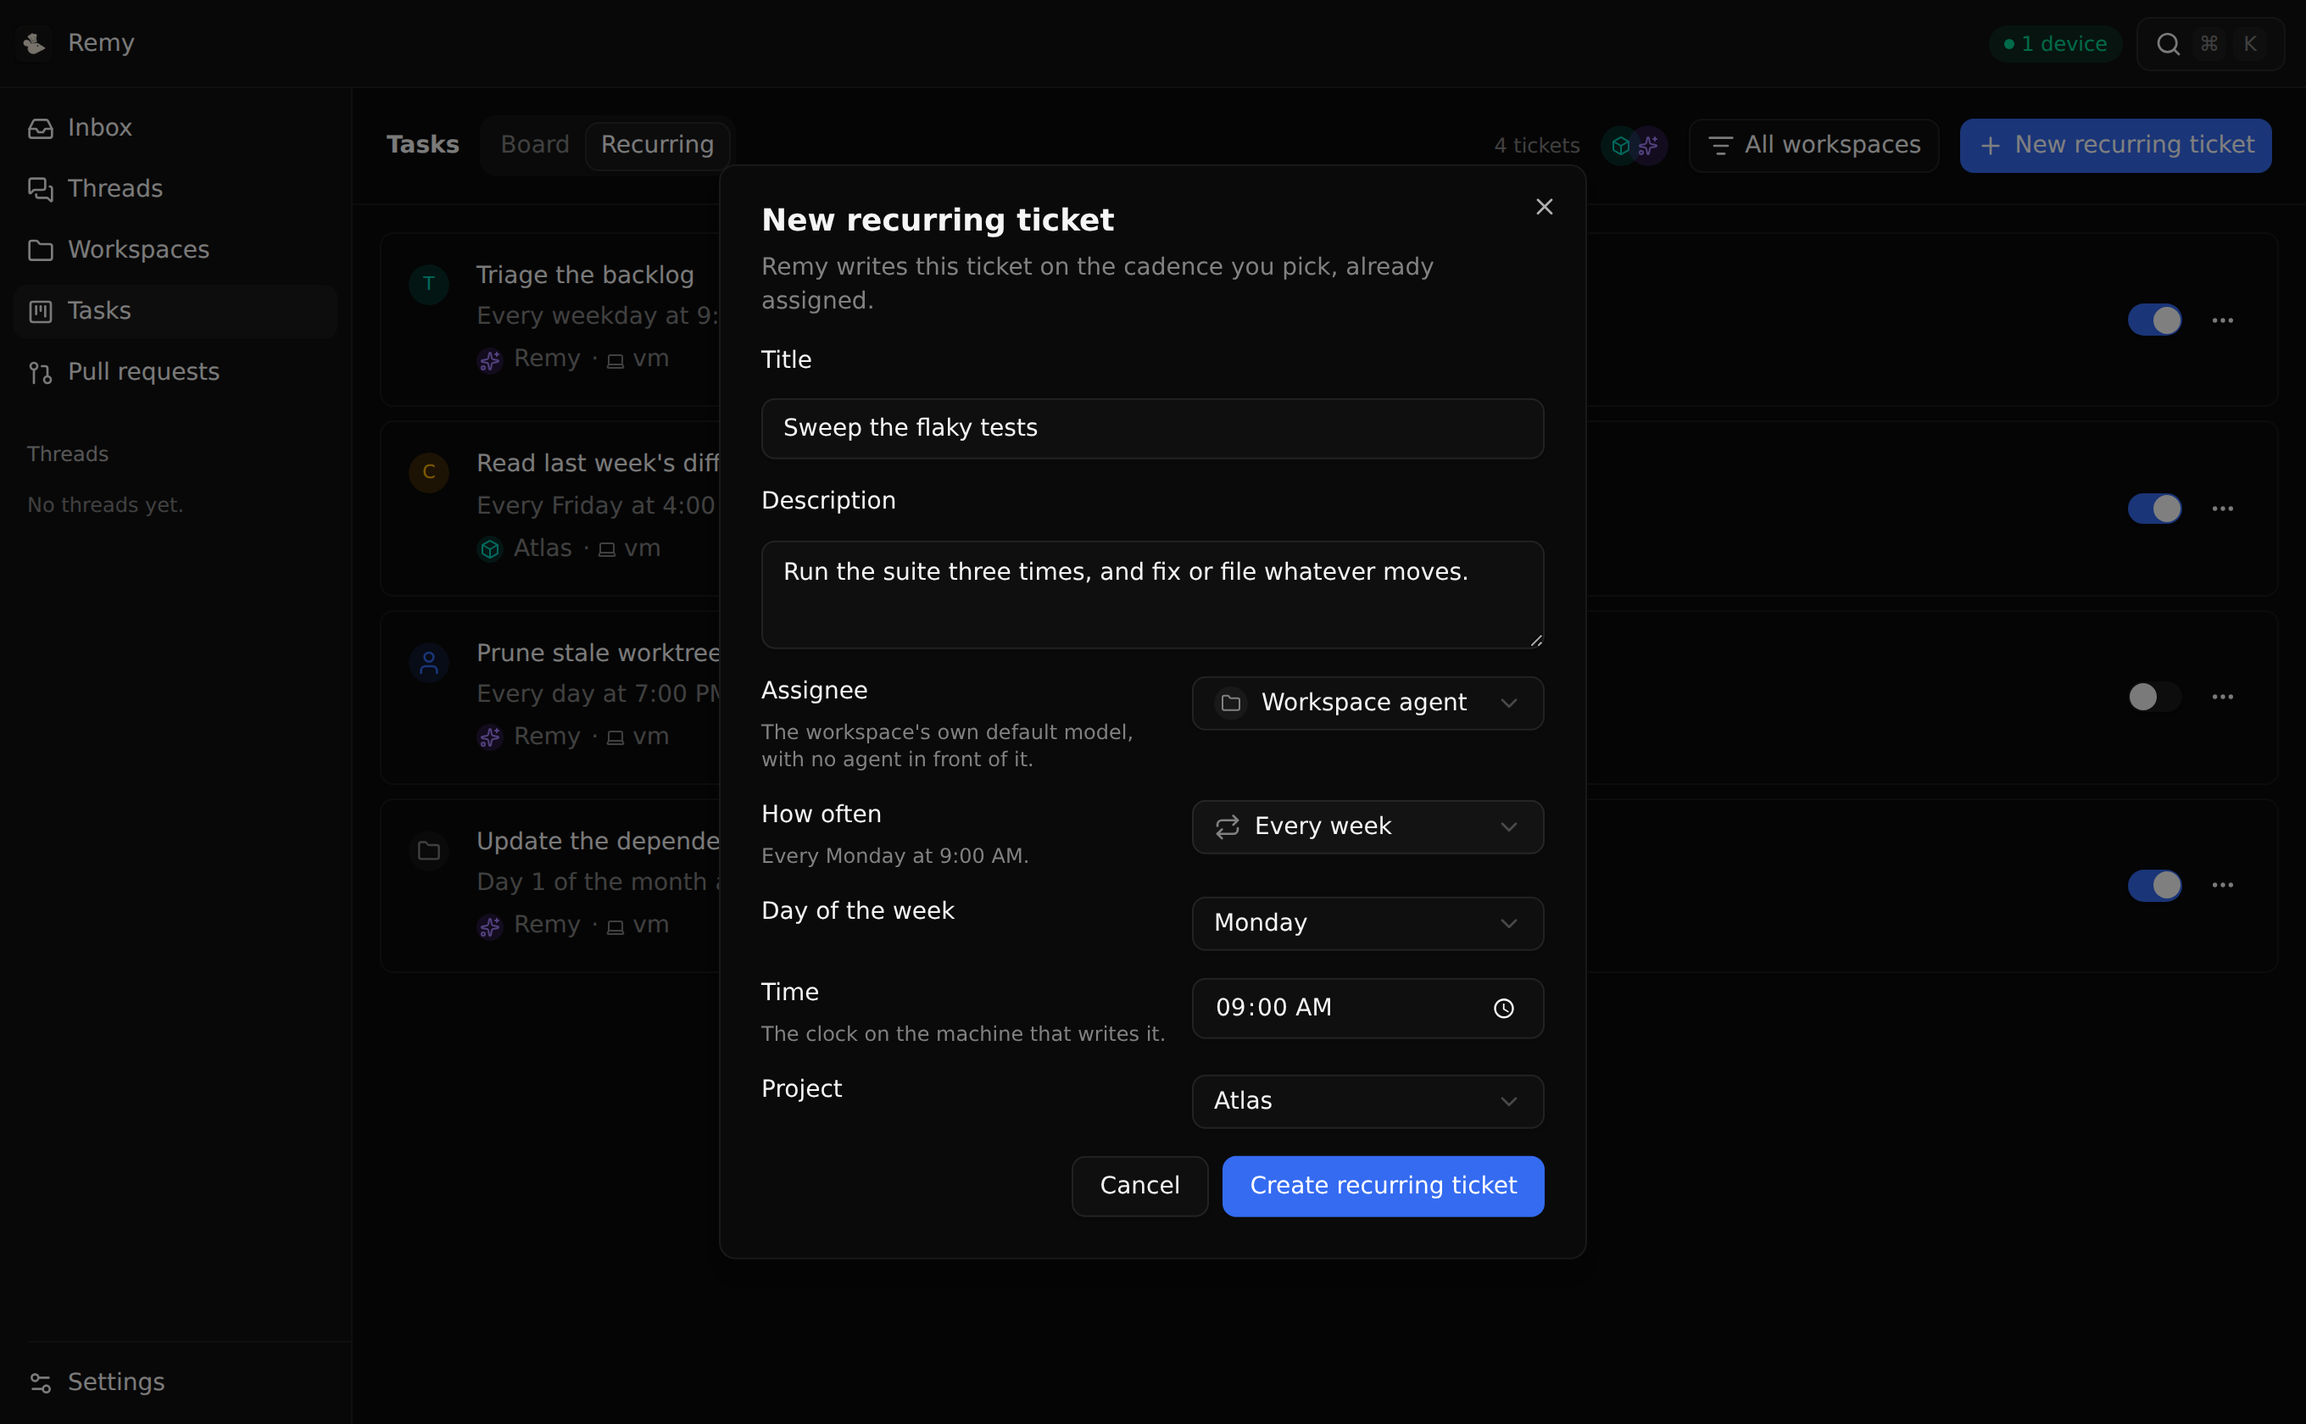
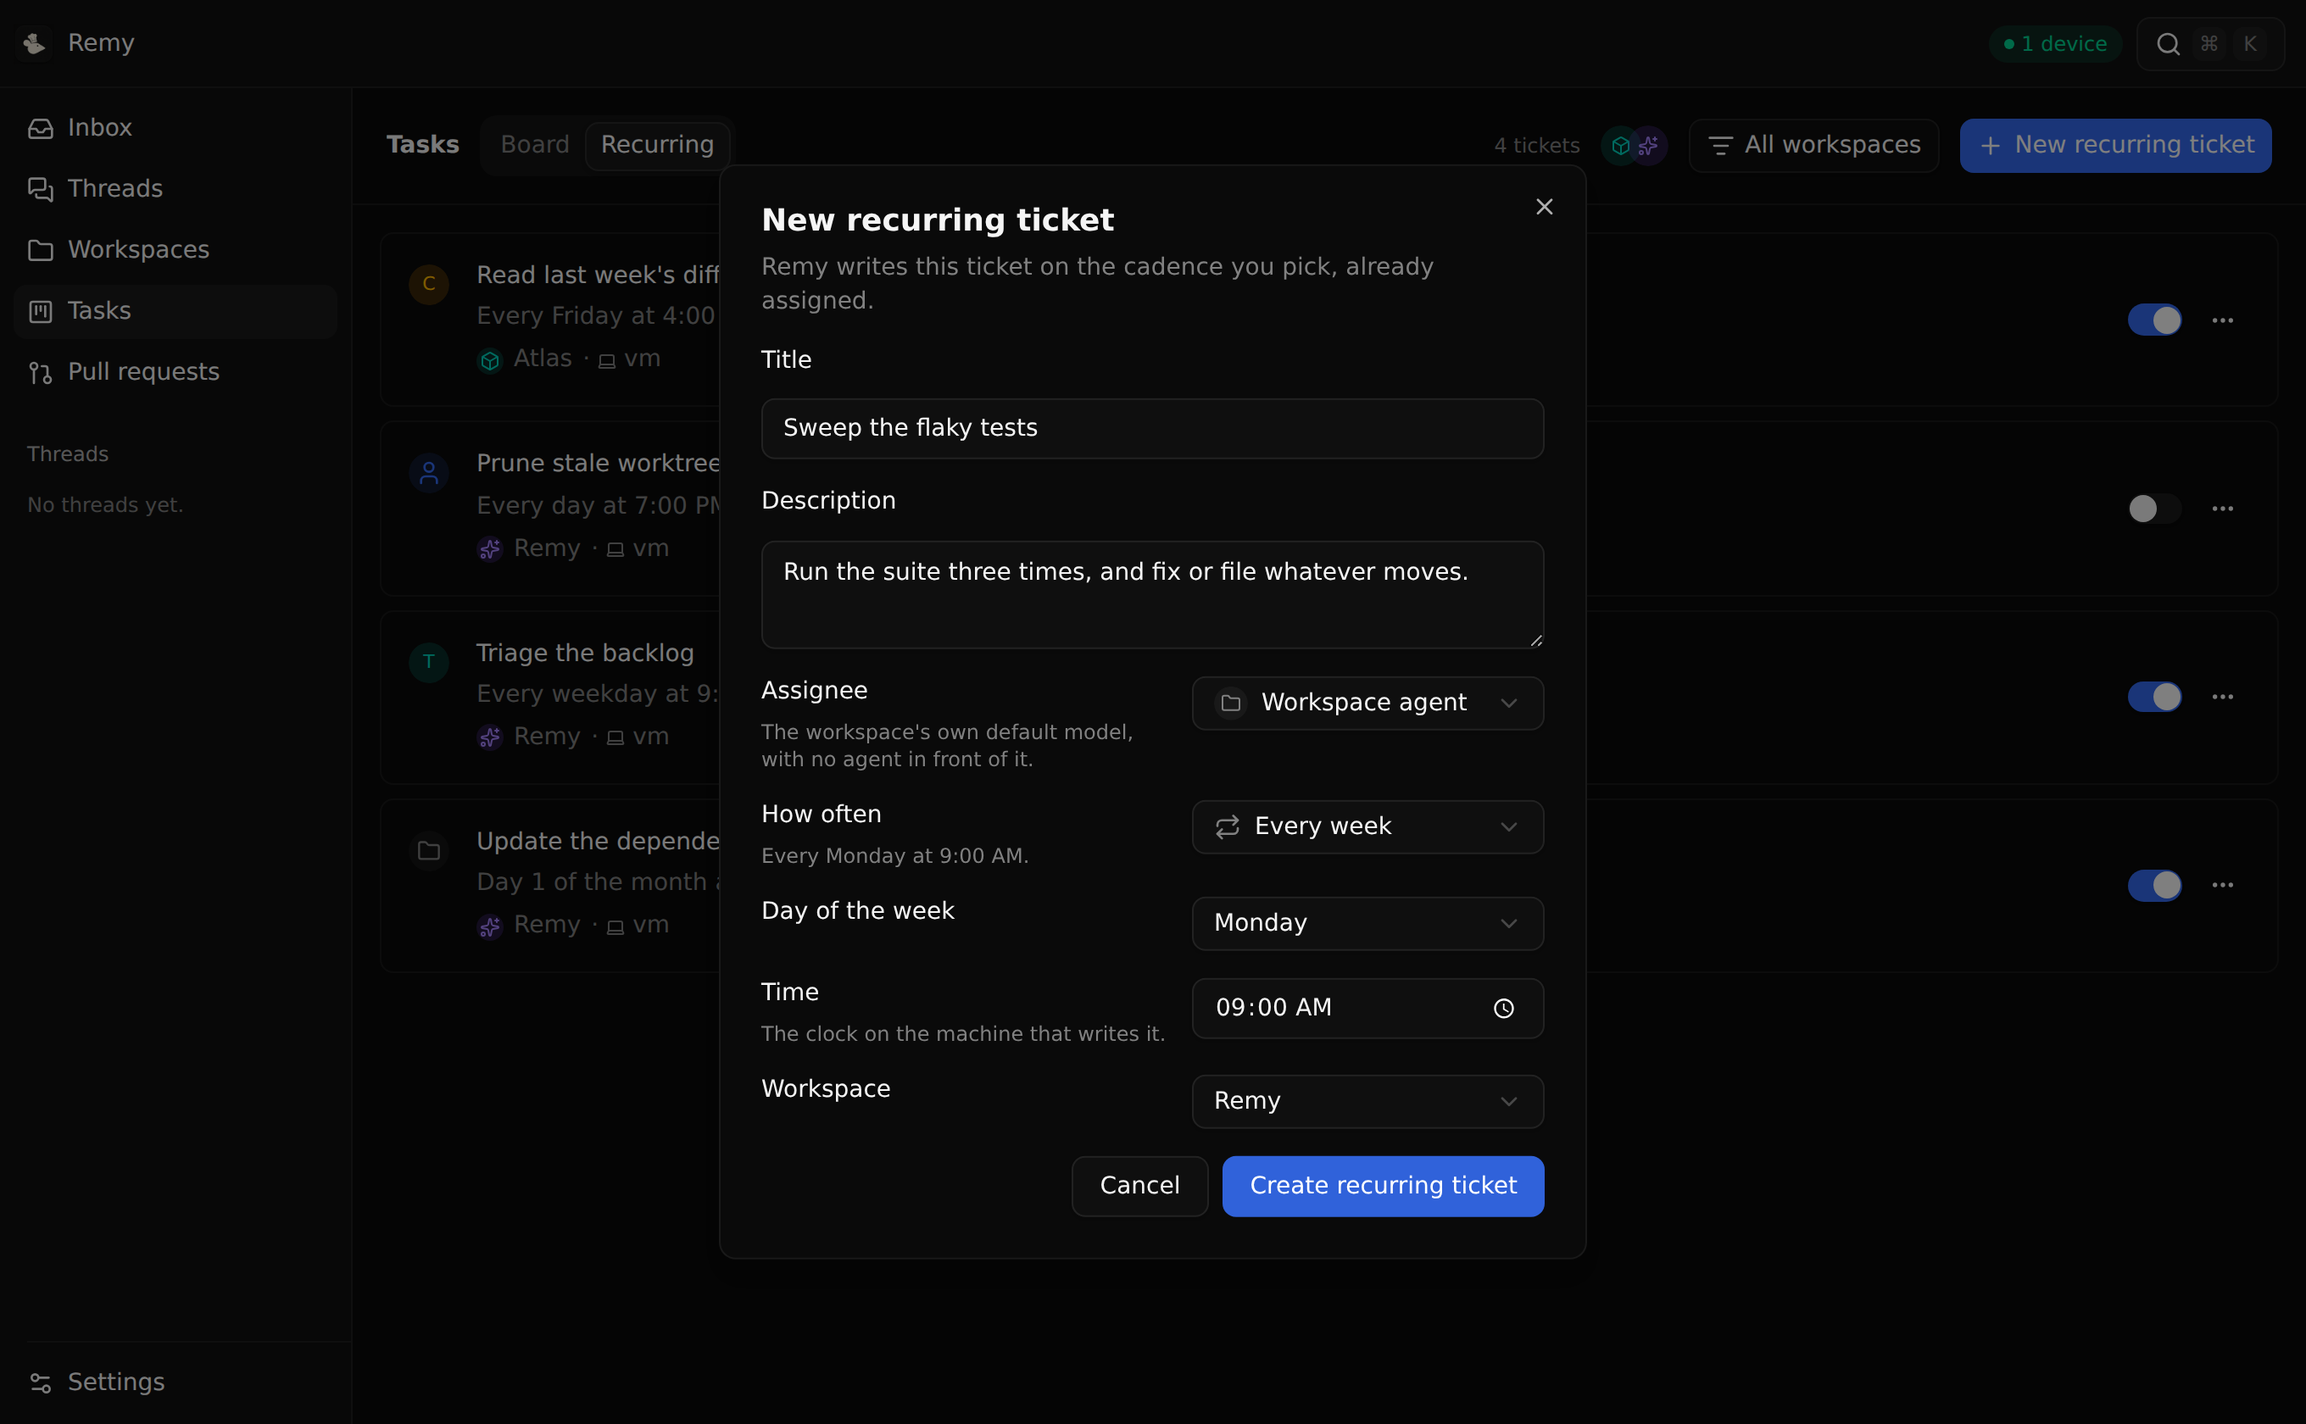
Say workspace, not project, in everything a person reads
A project is the code's word: the repository, keyed on its origin so two
machines land on the same board. Nobody adds a project — they add a folder — so
the UI has only ever had workspaces, and the new recurring dialog broke that by
labelling its field Project. The new-ticket dialog beside it had the same bug.

Fixes both labels, the two board empty states, and the errors the daemon sends
back for a write with no workspace or a slug that clashes.

AGENTS.md gains a Terminology section for the code word / person word pairs,
since this is the mistake that keeps coming back, and the `content` skill —
which is what anyone writing a label actually reads — names the workspace rule
beside the thread one.

Claude-Session: https://claude.ai/code/session_01L6ysjwjuDJKrr4hzKHKBWf

diff --git a/server/src/projects.ts b/server/src/projects.ts
@@ -188,7 +188,7 @@ export function listProjects(): ProjectView[] {
 
 export function createProject(input: { name: string; origin?: string }): Project {
   const name = input.name.trim().slice(0, 60);
-  if (!name) throw new Error("a project needs a name");
+  if (!name) throw new Error("a workspace needs a name");
   const id = randomUUID();
   append("project", id, "create", {
     name,
@@ -196,7 +196,7 @@ export function createProject(input: { name: string; origin?: string }): Project
     ...(input.origin ? { origin: input.origin } : {}),
   });
   const project = reproject(id);
-  if (!project) throw new Error("could not create that project");
+  if (!project) throw new Error("could not track that workspace");
   return project;
 }
 
@@ -207,12 +207,12 @@ export function createProject(input: { name: string; origin?: string }): Project
 /// already exist and the ones that do not yet.
 export function updateProject(id: string, patch: { name?: unknown; keyPrefix?: unknown }): Project {
   const existing = getProject(id);
-  if (!existing) throw new Error("no such project");
+  if (!existing) throw new Error("no such workspace");
   const fields: Record<string, unknown> = {};
 
   if (patch.name !== undefined) {
     const name = typeof patch.name === "string" ? patch.name.trim().slice(0, 60) : "";
-    if (!name) throw new Error("a project needs a name");
+    if (!name) throw new Error("a workspace needs a name");
     fields.name = name;
   }
   if (patch.keyPrefix !== undefined) {
@@ -221,14 +221,14 @@ export function updateProject(id: string, patch: { name?: unknown; keyPrefix?: u
     const clash = db
       .prepare("select id from projects where key_prefix = ? and id != ? and deleted = 0")
       .get(slug, id) as { id?: string } | undefined;
-    if (clash) throw new Error(`another project already uses ${slug}`);
+    if (clash) throw new Error(`another workspace already uses ${slug}`);
     fields.keyPrefix = slug;
   }
   if (Object.keys(fields).length === 0) return existing;
 
   append("project", id, "field", fields);
   const project = reproject(id);
-  if (!project) throw new Error("no such project");
+  if (!project) throw new Error("no such workspace");
   // Keys are derived, but the copy kept on each ticket row is what queries read,
   // so the project's tickets are rebuilt when its slug moves.
   if (fields.keyPrefix) onSlugChanged?.(id);

diff --git a/web/src/components/Board.tsx b/web/src/components/Board.tsx
@@ -158,7 +158,7 @@ export function Board({
               <SquareKanban />
             </EmptyMedia>
             <EmptyTitle className={loading ? "shimmer" : undefined}>
-              {loading ? "Reading the board…" : "No projects yet"}
+              {loading ? "Reading the board…" : "No workspaces yet"}
             </EmptyTitle>
             <EmptyDescription>
               {loading ? "Asking this machine what it is tracking." : "Add a workspace to plan work in it."}
@@ -206,7 +206,7 @@ export function Board({
             </EmptyMedia>
             <EmptyTitle>Nothing on the board</EmptyTitle>
             <EmptyDescription>
-              {chosen.size === 0 ? "Write the first ticket." : "No tickets in the projects you picked."}
+              {chosen.size === 0 ? "Write the first ticket." : "No tickets in the workspaces you picked."}
             </EmptyDescription>
           </EmptyHeader>
           <EmptyContent>
@@ -574,10 +574,10 @@ export function NewTicketDialog({
           {projects.length > 1 && !parentId && (
             <Field orientation="horizontal" className="items-center">
               <FieldContent>
-                <FieldLabel htmlFor="ticket-project">Project</FieldLabel>
+                <FieldLabel htmlFor="ticket-workspace">Workspace</FieldLabel>
               </FieldContent>
               <Select value={project} onValueChange={setProject}>
-                <SelectTrigger id="ticket-project" size="sm" className="w-52 shrink-0">
+                <SelectTrigger id="ticket-workspace" size="sm" className="w-52 shrink-0">
                   <SelectValue />
                 </SelectTrigger>
                 <SelectContent align="end">

diff --git a/web/src/components/Recurring.tsx b/web/src/components/Recurring.tsx
@@ -125,7 +125,7 @@ export function Recurring({
               <Repeat />
             </EmptyMedia>
             <EmptyTitle className={loading ? "shimmer" : undefined}>
-              {loading ? "Reading the board…" : "No projects yet"}
+              {loading ? "Reading the board…" : "No workspaces yet"}
             </EmptyTitle>
             <EmptyDescription>
               {loading ? "Asking this machine what it is tracking." : "Add a workspace to plan work in it."}
@@ -300,7 +300,7 @@ function RecurrenceRow({
             // there is nothing here to open.
             <span className="flex items-center gap-1.5">
               <Folder className="size-4 shrink-0" />
-              {project?.name ?? "No project"}
+              {project?.name ?? "No workspace"}
             </span>
           )}
           {device && (
@@ -591,10 +591,10 @@ function RecurrenceDialog({
           {projects.length > 1 && !recurrence && (
             <Field orientation="horizontal" className="items-center">
               <FieldContent>
-                <FieldLabel htmlFor="recurring-project">Project</FieldLabel>
+                <FieldLabel htmlFor="recurring-workspace">Workspace</FieldLabel>
               </FieldContent>
               <Select value={project} onValueChange={setProject}>
-                <SelectTrigger id="recurring-project" size="sm" className="w-52 shrink-0">
+                <SelectTrigger id="recurring-workspace" size="sm" className="w-52 shrink-0">
                   <SelectValue />
                 </SelectTrigger>
                 <SelectContent align="end">

diff --git a/server/src/recurring.test.ts b/server/src/recurring.test.ts
@@ -179,10 +179,10 @@ test("a deleted recurrence is gone and writes nothing more", () => {
   assert.throws(() => recurring.runRecurrence(recurrence.id), /no such recurring ticket/);
 });
 
-test("a recurrence needs a title and a project that exists", () => {
+test("a recurrence needs a title and a workspace that exists", () => {
   const project = projects.createProject({ name: "Guards" });
   assert.throws(() => recurring.createRecurrence({ projectId: project.id, title: "  " }), /needs a title/);
-  assert.throws(() => recurring.createRecurrence({ projectId: "nope", title: "Anything" }), /pick a project/);
+  assert.throws(() => recurring.createRecurrence({ projectId: "nope", title: "Anything" }), /pick a workspace/);
   assert.throws(
     () => recurring.createRecurrence({ projectId: project.id, title: "Anything", cadence: "fortnightly" }),
     /how often/,

diff --git a/server/src/tickets.ts b/server/src/tickets.ts
@@ -444,7 +444,7 @@ function validate(input: Record<string, unknown>): Record<string, unknown> {
 export function createTicket(input: Record<string, unknown>, actor = "you"): TicketView {
   const projectId = String(input.projectId ?? "");
   const project = getProject(projectId);
-  if (!project) throw new Error("pick a project for this ticket");
+  if (!project) throw new Error("pick a workspace for this ticket");
   const patch = validate(input);
   if (!patch.title) throw new Error("a ticket needs a title");
 

diff --git a/server/src/recurring.ts b/server/src/recurring.ts
@@ -304,7 +304,7 @@ function validate(input: Record<string, unknown>, existing?: Recurrence): Record
 
 export function createRecurrence(input: Record<string, unknown>): RecurrenceView {
   const projectId = String(input.projectId ?? "");
-  if (!getProject(projectId)) throw new Error("pick a project for this ticket");
+  if (!getProject(projectId)) throw new Error("pick a workspace for this ticket");
   const patch = validate(input);
   if (!patch.title) throw new Error("a recurring ticket needs a title");
 

diff --git a/server/src/index.ts b/server/src/index.ts
@@ -622,7 +622,7 @@ const server = createServer(async (req, res) => {
         broadcast({ type: "board" });
         return json(res, 200, { project });
       } catch (error) {
-        return json(res, 404, { error: (error as Error).message || "no such project" });
+        return json(res, 404, { error: (error as Error).message || "no such workspace" });
       }
     }
 

diff --git a/AGENTS.md b/AGENTS.md
@@ -46,6 +46,29 @@ Skip `VITE_MC_FIXTURE=1`; that is fake data, not your real state.
 - **`qa`** — after a visual or interaction change, drive the running app before calling it done.
 - **`shadcn`** and **`migrate-radix-to-base`** — vendored from `shadcn/ui` and tracked in `skills-lock.json`. Do not hand-edit them.
 
+## Terminology
+
+The code and the person do not always use the same word. Where they differ, the
+code's word is the one in types, tables and routes; the person's word is the one
+in **every string anybody reads** — a label, a menu item, an empty state, an
+error, a toast, a comment on a ticket. Getting this wrong is the most repeated
+mistake in this repo, so check the table before naming anything.
+
+| The code says | A person reads | Because |
+|---|---|---|
+| `project` | **workspace** | A project is the repository, keyed on its origin remote so two machines land on the same one. A workspace is one machine's folder holding it. Nobody adds a project — they add a folder, so that is the only word the UI uses. |
+| `chat` | **thread** | A conversation with an agent. The API, the database and the code all still say chat. |
+| `server`, `peer` | **device** | Another machine you paired with. |
+| `keyPrefix` | **ticket slug** | The letters in front of a ticket key. |
+| `recurrence` | **recurring ticket** | It is a ticket, written again on its cadence — never a job, a schedule or a loop. |
+| `assigneeAgentId` of `you` / `workspace` | **You** / **Workspace agent** | The two assignees that are not agent rows. |
+
+Nothing a person reads says project, job, workflow, cron, daemon, projection,
+fold, board log, lamport or event. **Tasks** is the section, **Board** and
+**Recurring** are its two tabs, and a **ticket** is the unit of work. Machine is
+fine — the app says "this machine" — and so is worktree, which is a git word
+anyone using worktrees already has.
+
 ## Checks
 
 ```sh
@@ -66,7 +89,7 @@ A server module opens its database at import time, so a test that touches state 
 - **Config lives in the database** — the `kv` table in `~/.remy/remy.db`, read through `server/src/config.ts`. A new setting is a key on `Config`, a line in `publicSettings`, and a validated branch in `patchSettings`; the client reads and writes it at `/server/settings`. `~/.mission-control` is the legacy directory, honoured when `~/.remy` is absent.
 - **Where the window is lives in the URL**, as a hash route parsed by `web/src/lib/route.ts`. Electron loads the build from `file://`, where a path a server never sees cannot survive a reload, so the hash is what both surfaces agree on.
 - **Worktrees** Remy creates go in a `.remy` folder, inside the workspace or under the `worktreeRoot` setting, hidden by a rule in the repo's `.git/info/exclude` — per-clone and never committed, so no tracked `.gitignore` changes. Worktrees already checked out elsewhere are left where they are.
-- **A person reads "thread"**, not "chat". The API, the database, and the code still say chat.
+- **The words a person reads** are not always the words the code uses — see **Terminology** above, and check it before naming a label, an error or an empty state.
 - **Pairing lives in the daemon**, in the `peers` table — not in any client, so one pairing serves the desktop app, the browser and the phone. A client reaches a paired machine through `/peers/:id/api/...` on its own daemon, which is the only side holding that machine's token. `GET /server/identity` is how a machine introduces itself; `tailscale serve` is the only way in, so the daemon's bind stays on `127.0.0.1`, and `PATCH /server/identity {exposed}` is the switch for it.
 - **Two machines pair by asking, not by carrying a token.** `tailnet.ts` lists your devices from `tailscale status --json` and probes each for Remy — an un-tokened `/health` answers **401**, which is the positive signal. `pairing.ts` then runs the ask: one side shows a six-digit code, a person on the other compares it and allows. `/pair/request` and `/pair/status` are **the only unauthenticated routes** in the daemon, because a machine that has never paired holds no token; they disclose nothing but an opaque request id, change nothing without human approval, are capped and single-use, and are reachable only over your own tailnet. Do not add a third.
 - **The board converges, it is not copied.** Peers exchange `board_log` events against a version vector (`versionVector`, `eventsSince`, `mergeRemote` in `board-log.ts`), then replay every `reprojectAll`. A merged event keeps the device and lamport it was written with — those two are its place in the order. One high-water mark per device, never a single cursor: a peer can merge a third machine's older event after you last pulled.

diff --git a/.agents/skills/content/SKILL.md b/.agents/skills/content/SKILL.md
@@ -11,6 +11,8 @@ Remy is a remote for coding agents on your own machines. Copy speaks to the pers
 
 A conversation is a **thread**. The API, the database, and the code still say chat; nothing a person reads does.
 
+The same goes for **workspace**: the code has a `project` — the repository, keyed on its origin so two machines share one board — but nobody adds a project, they add a folder. No label, menu, empty state or error says project. `AGENTS.md` has the rest of the table.
+
 Do not explain how the UI works, and do not mention servers or daemons unless someone has to pair a machine.
 
 ## Empty states
